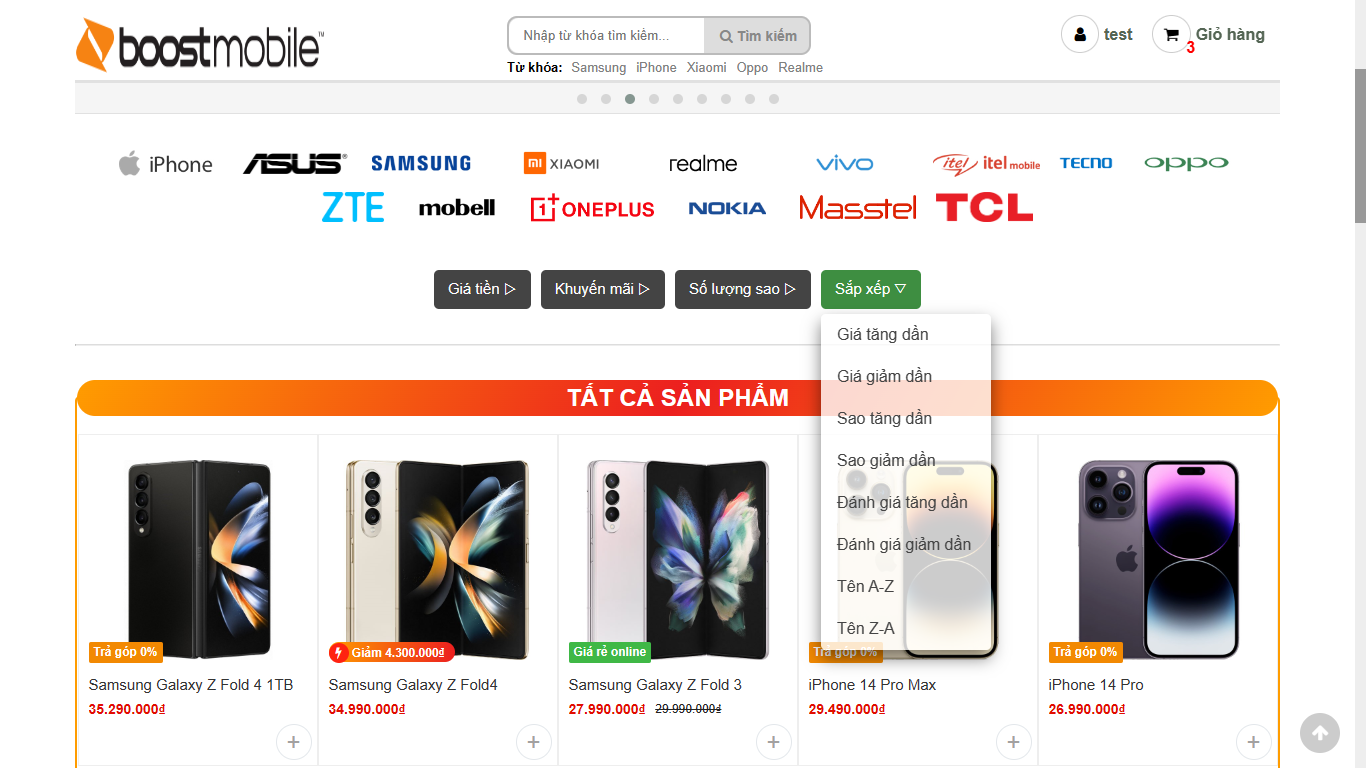
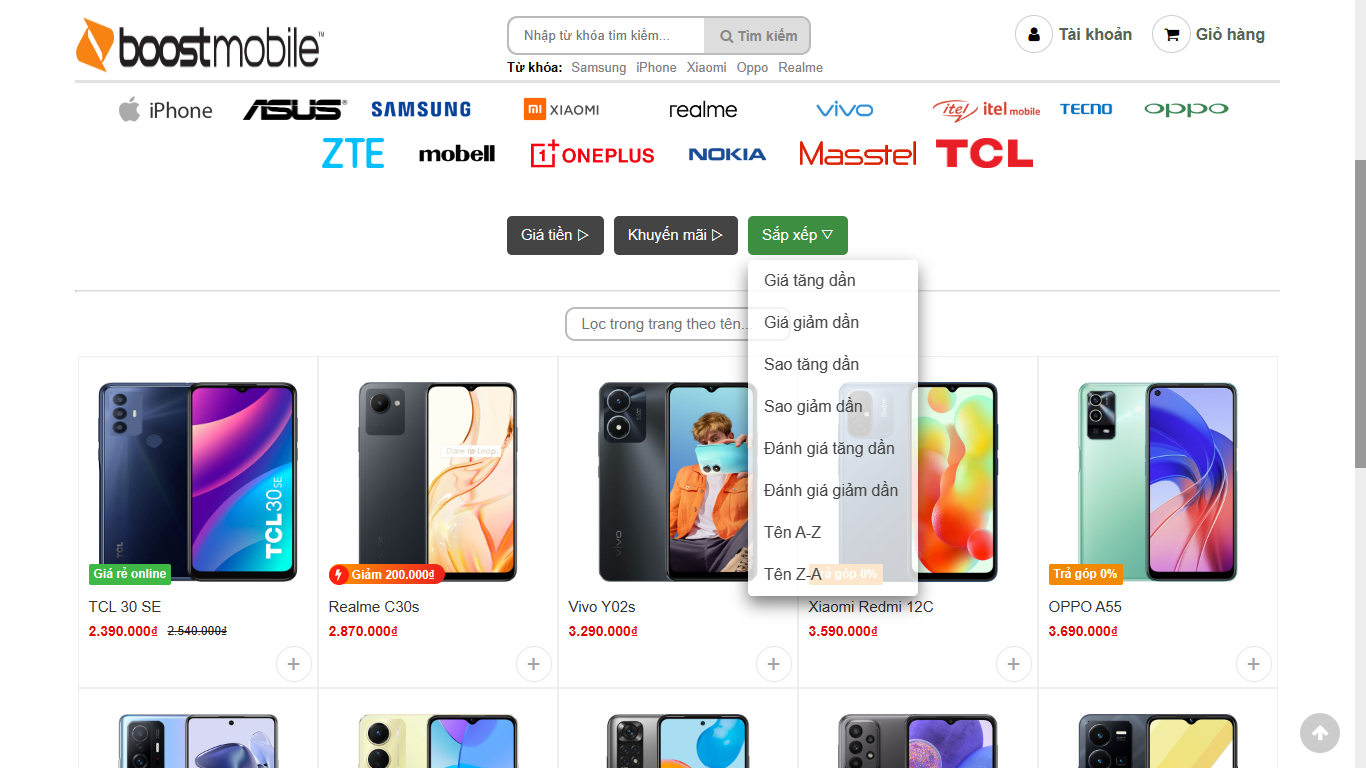
turn off reviews

diff --git a/js/trangchu.js b/js/trangchu.js
@@ -78,30 +78,41 @@ window.onload = function () {
     // Thêm các khung sản phẩm
     var div = document.getElementsByClassName("contain-khungSanPham")[0];
     addKhungSanPham(
+      //Để hiển thị tất cả sản phẩm, trước hết hiển thị page 1, có thể thay thế filter page=1 bằng all
       "TẤT CẢ SẢN PHẨM",
       yellow_red,
-      [ "sort=price-decrease"],
+      ["page=1"],
       soLuong,
       div
     );
     addKhungSanPham(
       "SẢN PHẨM MỚI",
       blue,
-      ["promo=moiramat", "sort=rateCount-decrease"],
+      [
+        "promo=moiramat",
+        "sort=price",
+        //  , "sort=rateCount-decrease"
+      ],
       soLuong,
       div
     );
     addKhungSanPham(
       "TRẢ GÓP 0%",
       yellow_red,
-      ["promo=tragop", "sort=rateCount-decrease"],
+      [
+        "promo=tragop",
+        //, "sort=rateCount-decrease"
+      ],
       soLuong,
       div
     );
     addKhungSanPham(
       "GIÁ SỐC ONLINE",
       green,
-      ["promo=giareonline", "sort=rateCount-decrease"],
+      [
+        "promo=giareonline",
+        //, "sort=rateCount-decrease"
+      ],
       soLuong,
       div
     );
@@ -135,17 +146,19 @@ window.onload = function () {
   addPromotion("giareonline");
 
   // Thêm chọn số sao
-  addStarFilter(3);
+  /*addStarFilter(3);
   addStarFilter(4);
   addStarFilter(5);
-
+*/
   // Thêm chọn sắp xếp
   addSortFilter("ascending", "price", "Giá tăng dần");
   addSortFilter("decrease", "price", "Giá giảm dần");
-  addSortFilter("ascending", "star", "Sao tăng dần");
+  //chưa sử dụng được tính năng đánh giá
+  /*addSortFilter("ascending", "star", "Sao tăng dần");
   addSortFilter("decrease", "star", "Sao giảm dần");
   addSortFilter("ascending", "rateCount", "Đánh giá tăng dần");
   addSortFilter("decrease", "rateCount", "Đánh giá giảm dần");
+  */
   addSortFilter("ascending", "name", "Tên A-Z");
   addSortFilter("decrease", "name", "Tên Z-A");
 
@@ -162,7 +175,7 @@ var filtersFromUrl = {
   search: "",
   price: "",
   promo: "",
-  star: "",
+  //star: "",
   page: "",
   sort: {
     by: "",
@@ -211,11 +224,11 @@ function phanTich_URL(filters, saveFilter) {
         if (saveFilter) filtersFromUrl.company = dauBang[1];
         break;
 
-      case "star":
+      /* case "star":
         result = timKiemTheoSoLuongSao(result, dauBang[1]);
         if (saveFilter) filtersFromUrl.star = dauBang[1];
         break;
-
+      */
       case "promo":
         result = timKiemTheoKhuyenMai(result, dauBang[1]);
         if (saveFilter) filtersFromUrl.promo = dauBang[1];
@@ -238,14 +251,14 @@ function phanTich_URL(filters, saveFilter) {
               return giaA - giaB;
             });
             break;
-
+          /*
           case "star":
             if (saveFilter) filtersFromUrl.sort.by = "star";
             result.sort(function (a, b) {
               return a.star - b.star;
             });
             break;
-
+*/
           case "rateCount":
             if (saveFilter) filtersFromUrl.sort.by = "rateCount";
             result.sort(function (a, b) {
@@ -422,8 +435,8 @@ function timKiemTheoCongTySanXuat(list, tenCongTy, soluong) {
   }
   return result;
 }
-
-function timKiemTheoSoLuongSao(list, soLuongSaoToiThieu, soluong) {
+//Tính năng tìm theo sao chưa sử dụng
+/*function timKiemTheoSoLuongSao(list, soLuongSaoToiThieu, soluong) {
   var count,
     result = [];
   if (soluong < list.length) count = soluong;
@@ -439,7 +452,7 @@ function timKiemTheoSoLuongSao(list, soLuongSaoToiThieu, soluong) {
 
   return result;
 }
-
+*/
 function timKiemTheoGiaTien(list, giaMin, giaMax, soluong) {
   var count,
     result = [];
@@ -528,10 +541,10 @@ function addAllChoosedFilter() {
 
   if (filtersFromUrl.promo != "")
     addChoosedFilter("promo", promoToString(filtersFromUrl.promo));
-
+  /*
   if (filtersFromUrl.star != "")
     addChoosedFilter("star", starToString(filtersFromUrl.star));
-
+*/
   if (filtersFromUrl.sort.by != "") {
     var sortBy = sortToString(filtersFromUrl.sort.by);
     var kieuSapXep =
@@ -647,7 +660,8 @@ function filterProductsName(ele) {
   alertNotHaveProduct(coSanPham);
 }
 
-// lọc theo số lượng sao
+// lọc theo số lượng sao(chưa dùng)
+/*
 function getStarFromLi(li) {
   var a = li.getElementsByTagName("a")[0];
   var divRate = a.getElementsByClassName("ratingresult");
@@ -675,7 +689,7 @@ function filterProductsStar(num) {
   // Thông báo nếu không có sản phẩm
   alertNotHaveProduct(coSanPham);
 }
-
+*/
 // ================= Hàm khác ==================
 
 // Thêm banner
@@ -724,7 +738,7 @@ function addPromotion(name) {
 }
 
 // Thêm chọn số lượng sao
-function addStarFilter(value) {
+/*function addStarFilter(value) {
   var link = createLinkFilter("add", "star", value);
 
   var text = starToString(value);
@@ -732,7 +746,7 @@ function addStarFilter(value) {
   document
     .getElementsByClassName("starFilter")[0]
     .getElementsByClassName("dropdown-content")[0].innerHTML += star;
-}
+}*/
 
 // Thêm chọn sắp xếp theo giá
 function addSortFilter(type, nameFilter, text) {
@@ -769,17 +783,18 @@ function promoToString(name) {
 }
 
 // Chuyển số sao về dạng chuỗi tiếng việt
-function starToString(star) {
+/*function starToString(star) {
   return "Trên " + (star - 1) + " sao";
-}
+}*/
 
 // Chuyển các loại sắp xếp về dạng chuỗi tiếng việt
 function sortToString(sortBy) {
   switch (sortBy) {
     case "price":
       return "Giá ";
-    case "star":
+    /* case "star":
       return "Sao ";
+    */
     case "rateCount":
       return "Đánh giá ";
     case "name":
@@ -790,6 +805,7 @@ function sortToString(sortBy) {
 }
 
 // Hàm Test, chưa sử dụng
+/*
 function hideSanPhamKhongThuoc(list) {
   var allLi = getLiArray();
   for (var i = 0; i < allLi.length; i++) {
@@ -802,4 +818,4 @@ function hideSanPhamKhongThuoc(list) {
     }
     if (hide) hideLi(allLi[i]);
   }
-}
+}*/

diff --git a/createProductJson.html b/createProductJson.html
@@ -62,7 +62,7 @@
 		// Thêm sản phẩm vào trang
 		function addProduct(p, id) {
 			promo = new Promo(p.promo.name, p.promo.value); // class Promo
-			product = new Product(p.img, p.name, p.price, p.star, p.rateCount, promo); // Class product
+			product = new Product(p.img, p.name, p.price,/* p.star,*/ p.rateCount, promo); // Class product
 			addToWeb(product, id);
 		}
 		function getResult() {
@@ -70,7 +70,7 @@
 			var company = document.getElementById('company').value;
 			var img = document.getElementById('img').value;
 			var price = document.getElementById('price').value;
-			var star = document.getElementById('star').value || 0;
+		//	var star = document.getElementById('star').value || 0;
 			var rateCount = document.getElementById('rateCount').value || 0;
 			var promoName = document.getElementById('promoName').value;
 			var promoValue = document.getElementById('promoValue').value;
@@ -83,7 +83,7 @@ return {
 	"company": company,
 	"img": img,
 	"price": price,
-	"star": star,
+	//"star": star,
 	"rateCount": rateCount,
 	"promo": {
 		"name": promoName,
@@ -161,10 +161,10 @@ return {
 						<td>Giá tiền:</td>
 						<td><input id="price" type="text"></td>
 					</tr>
-					<tr>
+					<!-- <tr>
 						<td>Đánh giá (mấy sao):</td>
 						<td><input id="star" type="text"></td>
-					</tr>
+					</tr> -->
 					<tr>
 						<td>Số lượt đánh giá:</td>
 						<td><input id="rateCount" type="text"></td>

diff --git a/index.html b/index.html
@@ -66,10 +66,10 @@
 				<div class="dropdown-content"></div>
 			</div>
 
-			<div class="starFilter dropdown">
+			<!-- <div class="starFilter dropdown">
 				<button class="dropbtn">Số lượng sao</button>
 				<div class="dropdown-content"></div>
-			</div>
+			</div> -->
 
 			<div class="sortFilter dropdown">
 				<button class="dropbtn">Sắp xếp</button>

diff --git a/js/classes.js b/js/classes.js
@@ -70,7 +70,6 @@ function addToWeb(p, ele, returnString) {
 		}
 		rating += `<span>` + p.rateCount + ` đánh giá</span>`;
 	}
-
 	// Chuyển giá tiền sang dạng tag html
 	var price = `<strong>` + p.price + `&#8363;</strong>`;
 	if (p.promo && p.promo.name == "giareonline") {

diff --git a/data/products.js b/data/products.js
@@ -89,7 +89,7 @@ let list_products = [
       battery: "5000 mAh, sạc 10W",
     },
     star: 2,
-    img: "https://cdn.tgdd.vn/Products/Images/42/303163/xiaomi-redmi-12c-blue-thumb-600x600.jpg",
+    img: "./img/products/12c.jpg",
     masp: "sp4",
   },
   {
